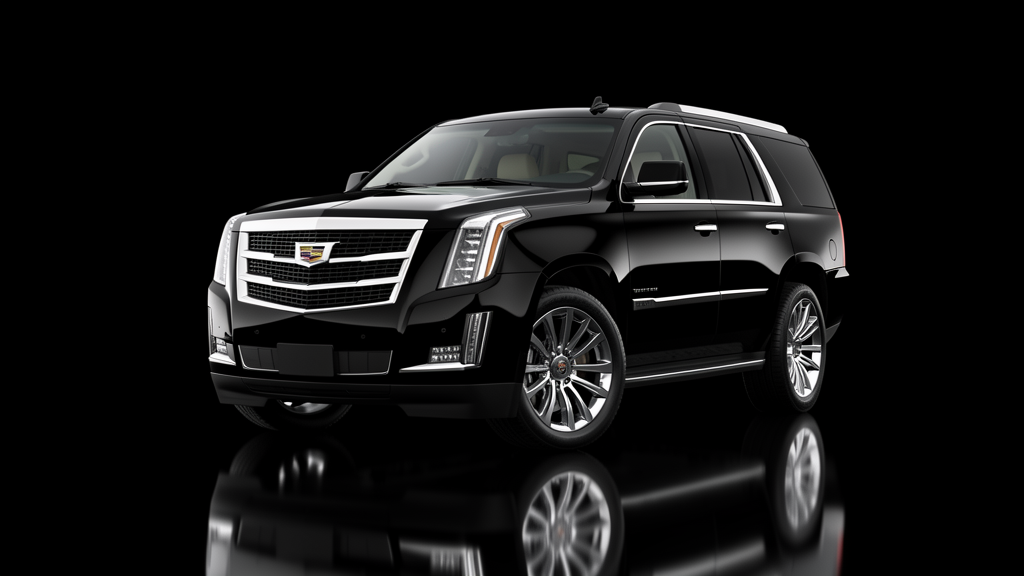
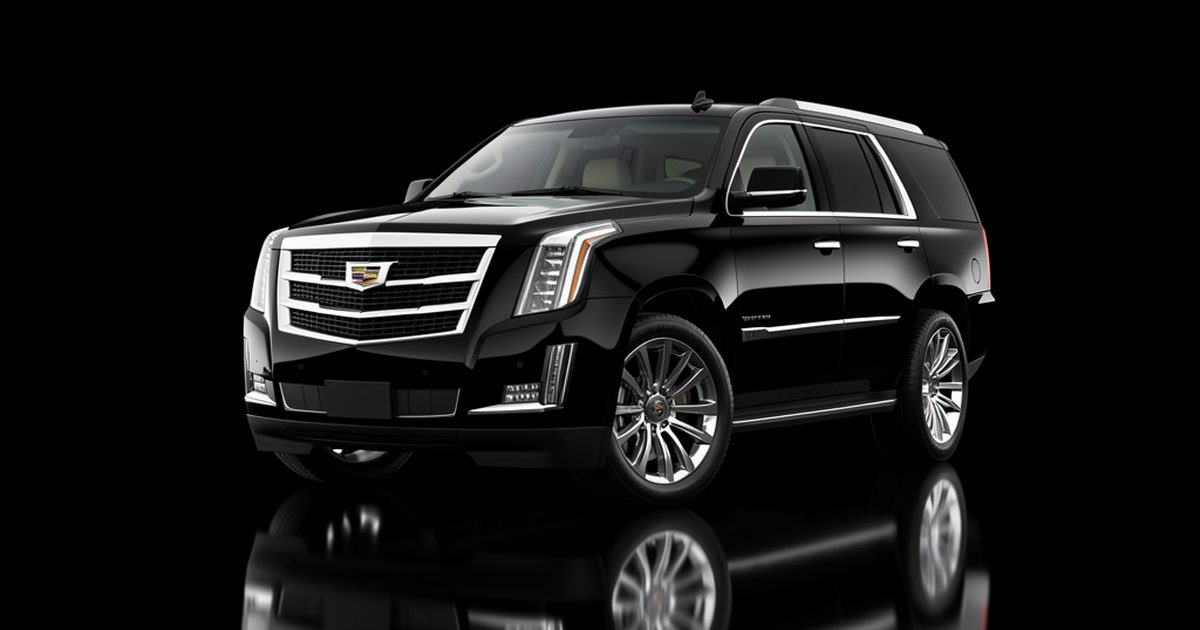
fix(seo): sitemap, llms.txt, IAH OG/schema polish, app/driver meta, og-image, fleet WebP
- Sitemap: only real crawlable URLs (home + IAH; /app/ removed), lastmod
  refreshed to change date
- Real /llms.txt as text/plain (was SPA HTML via fallback)
- IAH page: Open Graph block, Service.provider linked to
  https://avalimo.net/#business, BreadcrumbList added
- /driver/ gets noindex; /app/ gets meta description + canonical
- og-image.jpg is now a true 1200x630 JPEG (55 KB; was a mislabeled
  330 KB PNG); homepage JSON-LD gains image + logo
- Fleet photos converted PNG->WebP (~93% smaller) with width/height
  attributes rendered from the data model
- Removed dead public/videos/hero_bg.mp4 (unreferenced; live hero is
  the still Escalade image)

diff --git a/public/iah-airport-limo-service/index.html b/public/iah-airport-limo-service/index.html
@@ -6,8 +6,14 @@
 <title>IAH Airport Limo Service Houston — Flat Rate, Flight Tracking | AvaLimo</title>
 <meta name="description" content="AvaLimo provides flat-rate Mercedes and Escalade transfers from Houston IAH to anywhere in the metro. No surge pricing. Flight tracking included. Call (832) 567-8050.">
 <link rel="canonical" href="https://avalimo.net/iah-airport-limo-service/">
+<meta property="og:title" content="IAH Airport Limo Service Houston — Flat Rate, Flight Tracking | AvaLimo">
+<meta property="og:description" content="AvaLimo provides flat-rate Mercedes and Escalade transfers from Houston IAH to anywhere in the metro. No surge pricing. Flight tracking included. Call (832) 567-8050.">
+<meta property="og:url" content="https://avalimo.net/iah-airport-limo-service/">
+<meta property="og:type" content="website">
+<meta property="og:image" content="https://avalimo.net/og-image.jpg">
 <style>body{margin:0;background:#0a0a0a;color:#e8e6df;font:16px/1.65 system-ui,sans-serif}main{max-width:820px;margin:0 auto;padding:48px 22px 64px}h1{font-size:34px;line-height:1.2;color:#fff}h2{color:#d4af37;margin-top:38px}a{color:#d4af37}table{border-collapse:collapse;width:100%}td,th{border:1px solid #333;padding:8px 10px;text-align:left}details{border:1px solid #2a2a2a;border-radius:10px;padding:12px 16px;margin:10px 0}summary{cursor:pointer;color:#fff;font-weight:600}.cta{display:inline-block;background:#d4af37;color:#111;font-weight:700;padding:13px 26px;border-radius:10px;text-decoration:none;margin-top:18px}header p.lede{font-size:18px;color:#cfccc2}</style>
-<script type="application/ld+json">{"@context": "https://schema.org", "@type": "Service", "name": "IAH Airport Limo Service", "provider": {"@type": "LocalBusiness", "name": "AvaLimo", "telephone": "+1-832-567-8050", "url": "https://avalimo.net"}, "areaServed": "Houston, TX", "description": "AvaLimo provides flat-rate Mercedes and Escalade transfers from Houston IAH to anywhere in the metro. No surge pricing. Flight tracking included. Call (832) 567-8050.", "url": "https://avalimo.net/iah-airport-limo-service/"}</script>
+<script type="application/ld+json">{"@context": "https://schema.org", "@type": "Service", "name": "IAH Airport Limo Service", "provider": {"@id": "https://avalimo.net/#business"}, "areaServed": "Houston, TX", "description": "AvaLimo provides flat-rate Mercedes and Escalade transfers from Houston IAH to anywhere in the metro. No surge pricing. Flight tracking included. Call (832) 567-8050.", "url": "https://avalimo.net/iah-airport-limo-service/"}</script>
+<script type="application/ld+json">{"@context": "https://schema.org", "@type": "BreadcrumbList", "itemListElement": [{"@type": "ListItem", "position": 1, "name": "Home", "item": "https://avalimo.net/"}, {"@type": "ListItem", "position": 2, "name": "IAH Airport Limo Service", "item": "https://avalimo.net/iah-airport-limo-service/"}]}</script>
 <script type="application/ld+json">{"@context": "https://schema.org", "@type": "FAQPage", "mainEntity": [{"@type": "Question", "name": "How early should I book my IAH pickup?", "acceptedAnswer": {"@type": "Answer", "text": "Whenever you know your flight \u2014 a day or two ahead is ideal, but our dispatch runs 24/7 and same-day bookings are welcome whenever a vehicle is available. Call (832) 567-8050."}}, {"@type": "Question", "name": "Do you wait if my flight is delayed?", "acceptedAnswer": {"@type": "Answer", "text": "Yes. We track your flight in real time and adjust your pickup automatically. Complimentary wait time is 45 minutes for domestic arrivals and 60 minutes for international \u2014 delays never trigger surge pricing."}}, {"@type": "Question", "name": "Is the rate per person or per car?", "acceptedAnswer": {"@type": "Answer", "text": "Per car. Your flat rate covers the whole vehicle, including taxes, tolls, airport parking, meet-and-greet, and standard wait time \u2014 the price agreed before you book is the price you pay."}}, {"@type": "Question", "name": "Where do I meet my chauffeur at IAH?", "acceptedAnswer": {"@type": "Answer", "text": "At your terminal\u2019s baggage claim, holding a name sign. Prefer curbside? Your chauffeur stages nearby and pulls up within minutes of your ready text."}}, {"@type": "Question", "name": "What if I\u2019m landing at Hobby instead?", "acceptedAnswer": {"@type": "Answer", "text": "We serve both Houston airports with the same flat-rate, flight-tracked service \u2014 see our Houston airport transfers page or call (832) 567-8050 and we\u2019ll set it up."}}]}</script>
 </head>
 <body>

diff --git a/src/data/avalimoData.ts b/src/data/avalimoData.ts
@@ -38,7 +38,9 @@ export const FLEET_DATA: FleetItem[] = [
     flatRateHobby: 105,
     flatRateGalveston: 220,
     minHours: 3,
-    image: '/mercedes_sclass.png',
+    image: '/mercedes_sclass.webp',
+    imageWidth: 1024,
+    imageHeight: 576,
     description: 'The pinnacle of German luxury. Ultra-smooth, whisper-quiet cabin for executives, airport arrivals, and distinguished couples.',
     features: [
       'Hand-stitched Nappa leather reclining rear seats',
@@ -66,7 +68,9 @@ export const FLEET_DATA: FleetItem[] = [
     flatRateHobby: 135,
     flatRateGalveston: 260,
     minHours: 3,
-    image: '/cadillac_escalade.png',
+    image: '/cadillac_escalade.webp',
+    imageWidth: 1024,
+    imageHeight: 576,
     description: 'Imposing, spacious, and prestigious. Extended wheelbase guarantees abundant legroom and cargo capacity for airport or cruise departures.',
     features: [
       'Extended wheelbase (ESV) maximum cargo capacity',
@@ -94,7 +98,9 @@ export const FLEET_DATA: FleetItem[] = [
     flatRateHobby: 135,
     flatRateGalveston: 245,
     minHours: 3,
-    image: '/gmc_yukon_suburban.png',
+    image: '/gmc_yukon_suburban.webp',
+    imageWidth: 640,
+    imageHeight: 640,
     description: 'The definitive standard for corporate livery and comfortable group travel across Texas highways.',
     features: [
       'Black leather 7-passenger executive seating',
@@ -122,7 +128,9 @@ export const FLEET_DATA: FleetItem[] = [
     flatRateHobby: 240,
     flatRateGalveston: 390,
     minHours: 4,
-    image: '/mercedes_sprinter.png',
+    image: '/mercedes_sprinter.webp',
+    imageWidth: 1024,
+    imageHeight: 576,
     description: 'The ultimate mobile boardroom and luxury group transporter. Full stand-up headroom, custom leather chairs, smart TV, and ambient lighting.',
     features: [
       'High-roof walk-in design with 6\'4" standing clearance',
@@ -150,7 +158,9 @@ export const FLEET_DATA: FleetItem[] = [
     flatRateHobby: 220,
     flatRateGalveston: 360,
     minHours: 4,
-    image: '/cadillac_escalade.png',
+    image: '/cadillac_escalade.webp',
+    imageWidth: 1024,
+    imageHeight: 576,
     description: 'The iconic symbol of celebratory glamour. Wrap-around J-lounge sofa, mirrored bar, starlight ceiling, and surround sound.',
     features: [
       'Wrap-around two-tone leather J-seating for 10 guests',
@@ -178,7 +188,9 @@ export const FLEET_DATA: FleetItem[] = [
     flatRateHobby: 320,
     flatRateGalveston: 550,
     minHours: 5,
-    image: '/mercedes_sprinter.png',
+    image: '/mercedes_sprinter.webp',
+    imageWidth: 1024,
+    imageHeight: 576,
     description: 'Engineered for large parties, corporate delegations, and major Houston galas.',
     features: [
       '24 high-back ergonomic leather passenger seats',

diff --git a/public/app/index.html b/public/app/index.html
@@ -4,6 +4,8 @@
 <meta charset="UTF-8">
 <meta name="viewport" content="width=device-width, initial-scale=1.0, viewport-fit=cover">
 <meta name="theme-color" content="#000000">
+<meta name="description" content="The AvaLimo client app — book flat-rate luxury chauffeur rides across Houston, manage your trips, and reach 24/7 dispatch at (832) 567-8050.">
+<link rel="canonical" href="https://avalimo.net/app/">
 <title>AvaLimo — Client App</title>
 <link rel="manifest" href="/app/manifest.webmanifest">
 <link rel="apple-touch-icon" href="/app/icon-192.png">

diff --git a/src/components/Fleet.tsx b/src/components/Fleet.tsx
@@ -49,6 +49,8 @@ const Fleet: React.FC<FleetProps> = ({ onSelectVehicle }) => {
                 <div className="aspect-[4/3] overflow-hidden">
                   <img
                     src={vehicle.image}
+                    width={vehicle.imageWidth}
+                    height={vehicle.imageHeight}
                     alt={vehicle.name}
                     className="w-full h-full object-cover transition-transform duration-500 group-hover:scale-105"
                     loading="lazy"

diff --git a/public/driver/index.html b/public/driver/index.html
@@ -4,6 +4,7 @@
 <meta charset="UTF-8">
 <meta name="viewport" content="width=device-width, initial-scale=1.0, viewport-fit=cover">
 <meta name="theme-color" content="#000000">
+<meta name="robots" content="noindex, nofollow">
 <title>AvaLimo Driver</title>
 <link rel="manifest" href="/driver/manifest.webmanifest">
 <link rel="apple-touch-icon" href="/driver/icon-192.png">

diff --git a/index.html b/index.html
@@ -20,6 +20,8 @@
         "@id": "https://avalimo.net/#business",
         "name": "AvaLimo",
         "url": "https://avalimo.net/",
+        "image": "https://avalimo.net/og-image.jpg",
+        "logo": "https://avalimo.net/logo.png",
         "telephone": "+1-832-567-8050",
         "priceRange": "$$",
         "address": {

diff --git a/src/types.ts b/src/types.ts
@@ -32,6 +32,8 @@ export interface FleetItem {
   flatRateGalveston: number;
   minHours: number;
   image: string;
+  imageWidth: number;
+  imageHeight: number;
   description: string;
   features: string[];
   idealFor: string[];
